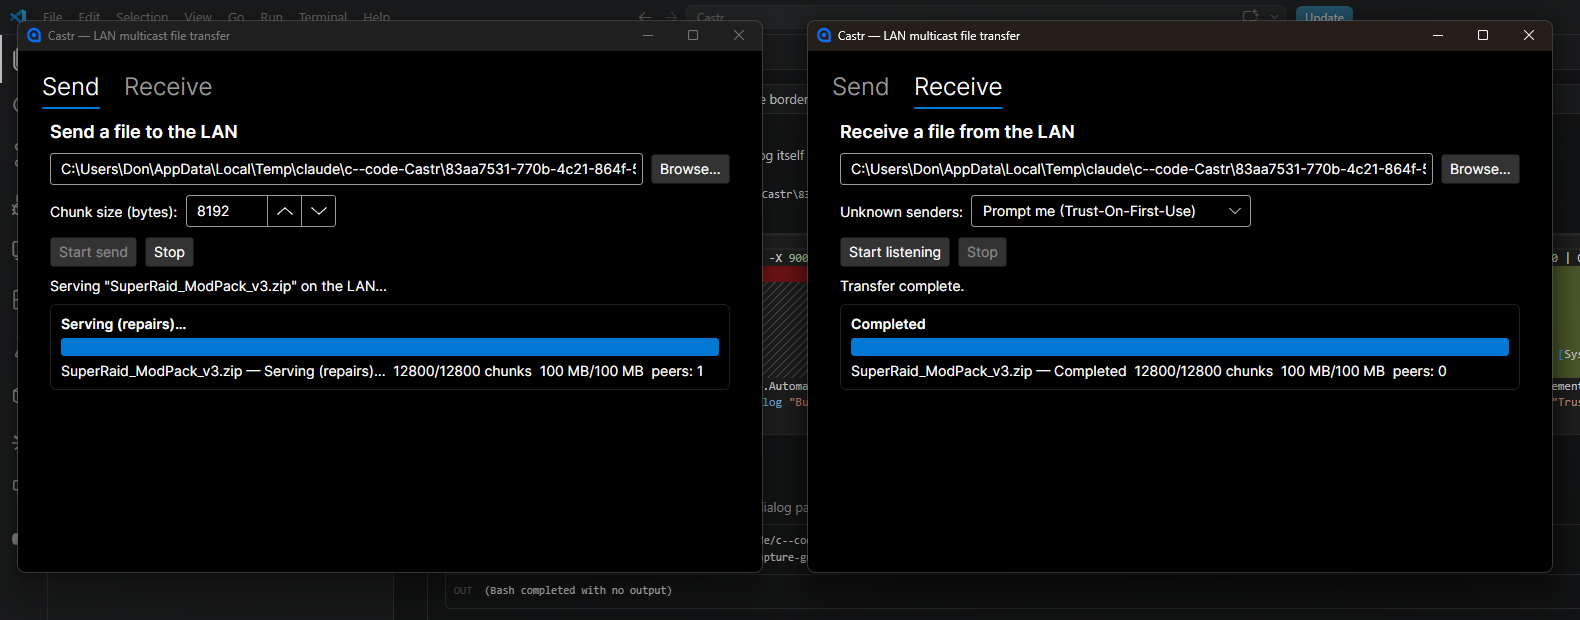
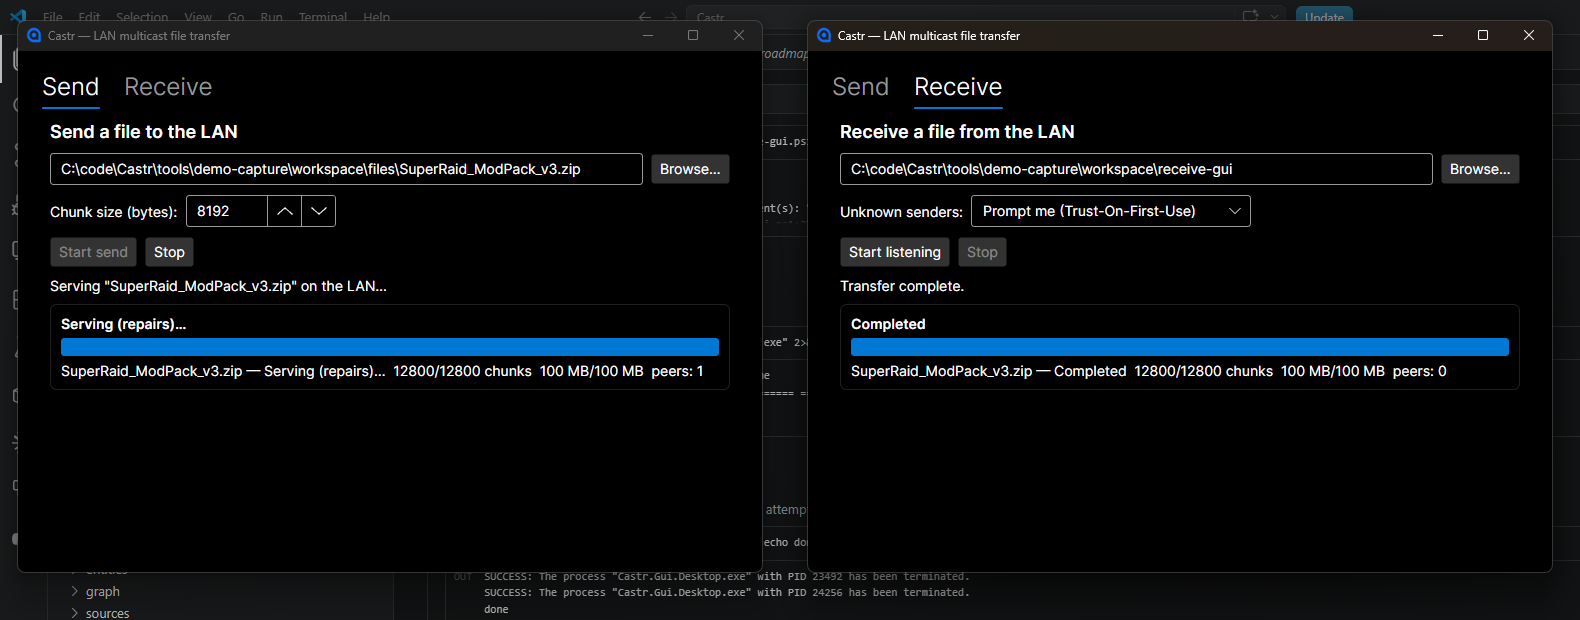
Re-record showcase demos at M6's corrected throughput
Regenerated all three demo GIFs and the two static GUI screenshots with
tools/demo-capture/ against the merged M6 fix. Real, honest numbers using
the shipped default (--send-window-size=1, not the unvalidated opt-in):
60MB CLI transfer in ~6s, 80MB fanned out to 3 TUI receivers in ~12s, 100MB
GUI transfer (smaller default chunk size) in ~28s -- all dramatically
faster than the pre-fix ~1.6-2.4 MB/s plateau the original recordings
showed. SHOWCASE.md and README updated with the real timings and a note
explaining what changed and why, linking to
wiki/synthesis/m6-throughput-pipelining.md for the full investigation.

diff --git a/docs/SHOWCASE.md b/docs/SHOWCASE.md
@@ -8,6 +8,8 @@ You just finished downloading a 100 MB mod pack and five other people at the tab
 
 Open Castr, drop the file in, hit **Start send**. Everyone else's Castr window lights up with an unknown-sender prompt showing exactly who's sending, what, and how big — they read your name off it, click **Trust and accept**, and the transfer just starts. One broadcast, everyone downloading in parallel, off the LAN entirely.
 
+The 100 MB mod pack below finishes in about 28 seconds over real loopback multicast at the GUI's default 8 KB chunk size — see "How these were made" for why that number is meaningfully better than it used to be.
+
 <p align="center"><img src="media/lan-party-desktop-gui.gif" alt="Castr desktop GUI: sender and receiver windows side by side, live transfer progress" width="820"></p>
 
 That trust prompt is the whole security model made visible — nothing downloads until a human looks at the sender's identity and says yes:
@@ -31,6 +33,8 @@ castr receive --dest-dir /etc/fleet-config --trust-store ops-trusted-senders.jso
 
 One sender, any number of listeners on the segment, all pulling from the same multicast stream in parallel — pushing to 3 machines costs the same wall-clock time as pushing to 30. Trust is enforced by a pre-seeded `trusted-senders.json` baked into the fleet image, so a rogue host on the same subnet can announce all it wants and every receiver ignores it by default.
 
+The 60 MB bundle below completes in about 6 seconds — real, loopback, chunk-hashed, encrypted, no shortcuts taken for the recording.
+
 <p align="center"><img src="media/sysadmin-fleet-push-cli.gif" alt="Castr CLI: sender and receiver terminals side by side, plain-text progress lines in lockstep" width="820"></p>
 
 ## 🧪 The test lab — the colorful TUI
@@ -43,9 +47,13 @@ This is the "one send, hundreds of receive" story made visible — one sender, t
 
 Every panel is a real, independent `castr receive --tui` process — nothing here is simulated or mirrored. Watch the `Peers` count, the throughput, and the chunk map percentages: they're each converging on 100% at their own pace, exactly as they would across an actual rack of machines.
 
+All three panels below hit 100% in about 12 seconds — an 80 MB dataset fanned out to 3 receivers at once, each dashboard reporting its own live ~9 MB/s.
+
 ## How these were made
 
 Every asset on this page is a real capture of `main`'s actual `Castr.Cli`/`Castr.Tui`/`Castr.Gui.Desktop` binaries, sending real (sparse-allocated, correctly-sized) demo files over real loopback IP multicast — chunked, BLAKE3-hashed, Merkle-proofed, ChaCha20-Poly1305-encrypted, and verified on arrival exactly as a real cross-machine transfer would be. Screen capture used `ffmpeg`'s `ddagrab` (DXGI Desktop Duplication) rather than the older `gdigrab`, since Windows Terminal's GPU-composited rendering desaturates badly under legacy GDI BitBlt capture. The capture scripts themselves are saved in [`tools/demo-capture/`](../tools/demo-capture/) so this media can be regenerated later.
+
+**These GIFs were re-recorded after a real throughput fix.** The first recording of these demos plateaued around 1.6-2.4 MB/s regardless of file or transport — turned out to be a genuine bug, not a demo artifact: `ReceiverSession`'s per-packet handling (verify, decrypt, write, and an outbound broadcast) was fully serialized behind the same lock the UDP socket's own drain loop depended on, so the OS receive buffer only emptied as fast as that whole chain ran. Fixed by decoupling the socket read into its own task feeding a bounded channel, plus explicit socket buffer sizing — see [`wiki/synthesis/m6-throughput-pipelining.md`](../wiki/synthesis/m6-throughput-pipelining.md) for the full three-round investigation, including two independent review passes before the fix shipped. The numbers above (6s/12s/28s) are the same real, unmodified binaries, on the same machine, just no longer bottlenecked.
 
 ## What's not shown here yet
 

diff --git a/README.md b/README.md
@@ -22,8 +22,12 @@ TUI dashboard, and the desktop GUI →](docs/SHOWCASE.md)**
 
 ## Status
 
-M0 (scaffolding) through M4 (mobile) are complete; M5 (release automation)
-is next. Chunk payloads are ChaCha20-Poly1305-encrypted end-to-end and
+M0 (scaffolding) through M6 are complete: M5 shipped the showcase docs
+below, and M6 root-caused and fixed a real send/receive throughput
+bottleneck (see "See it in action" below and
+`wiki/synthesis/m6-throughput-pipelining.md`) — formal release automation
+(tag-triggered releases, checksums/signatures) remains open, tracked in
+`wiki/synthesis/roadmap.md`. Chunk payloads are ChaCha20-Poly1305-encrypted end-to-end and
 travel over MTU-safe wire packets (chunks split/reassembled below the
 crypto layer) — see `wiki/synthesis/m1.5-encryption-summary.md` and
 `wiki/synthesis/m3-test-ci-hardening-summary.md`.
